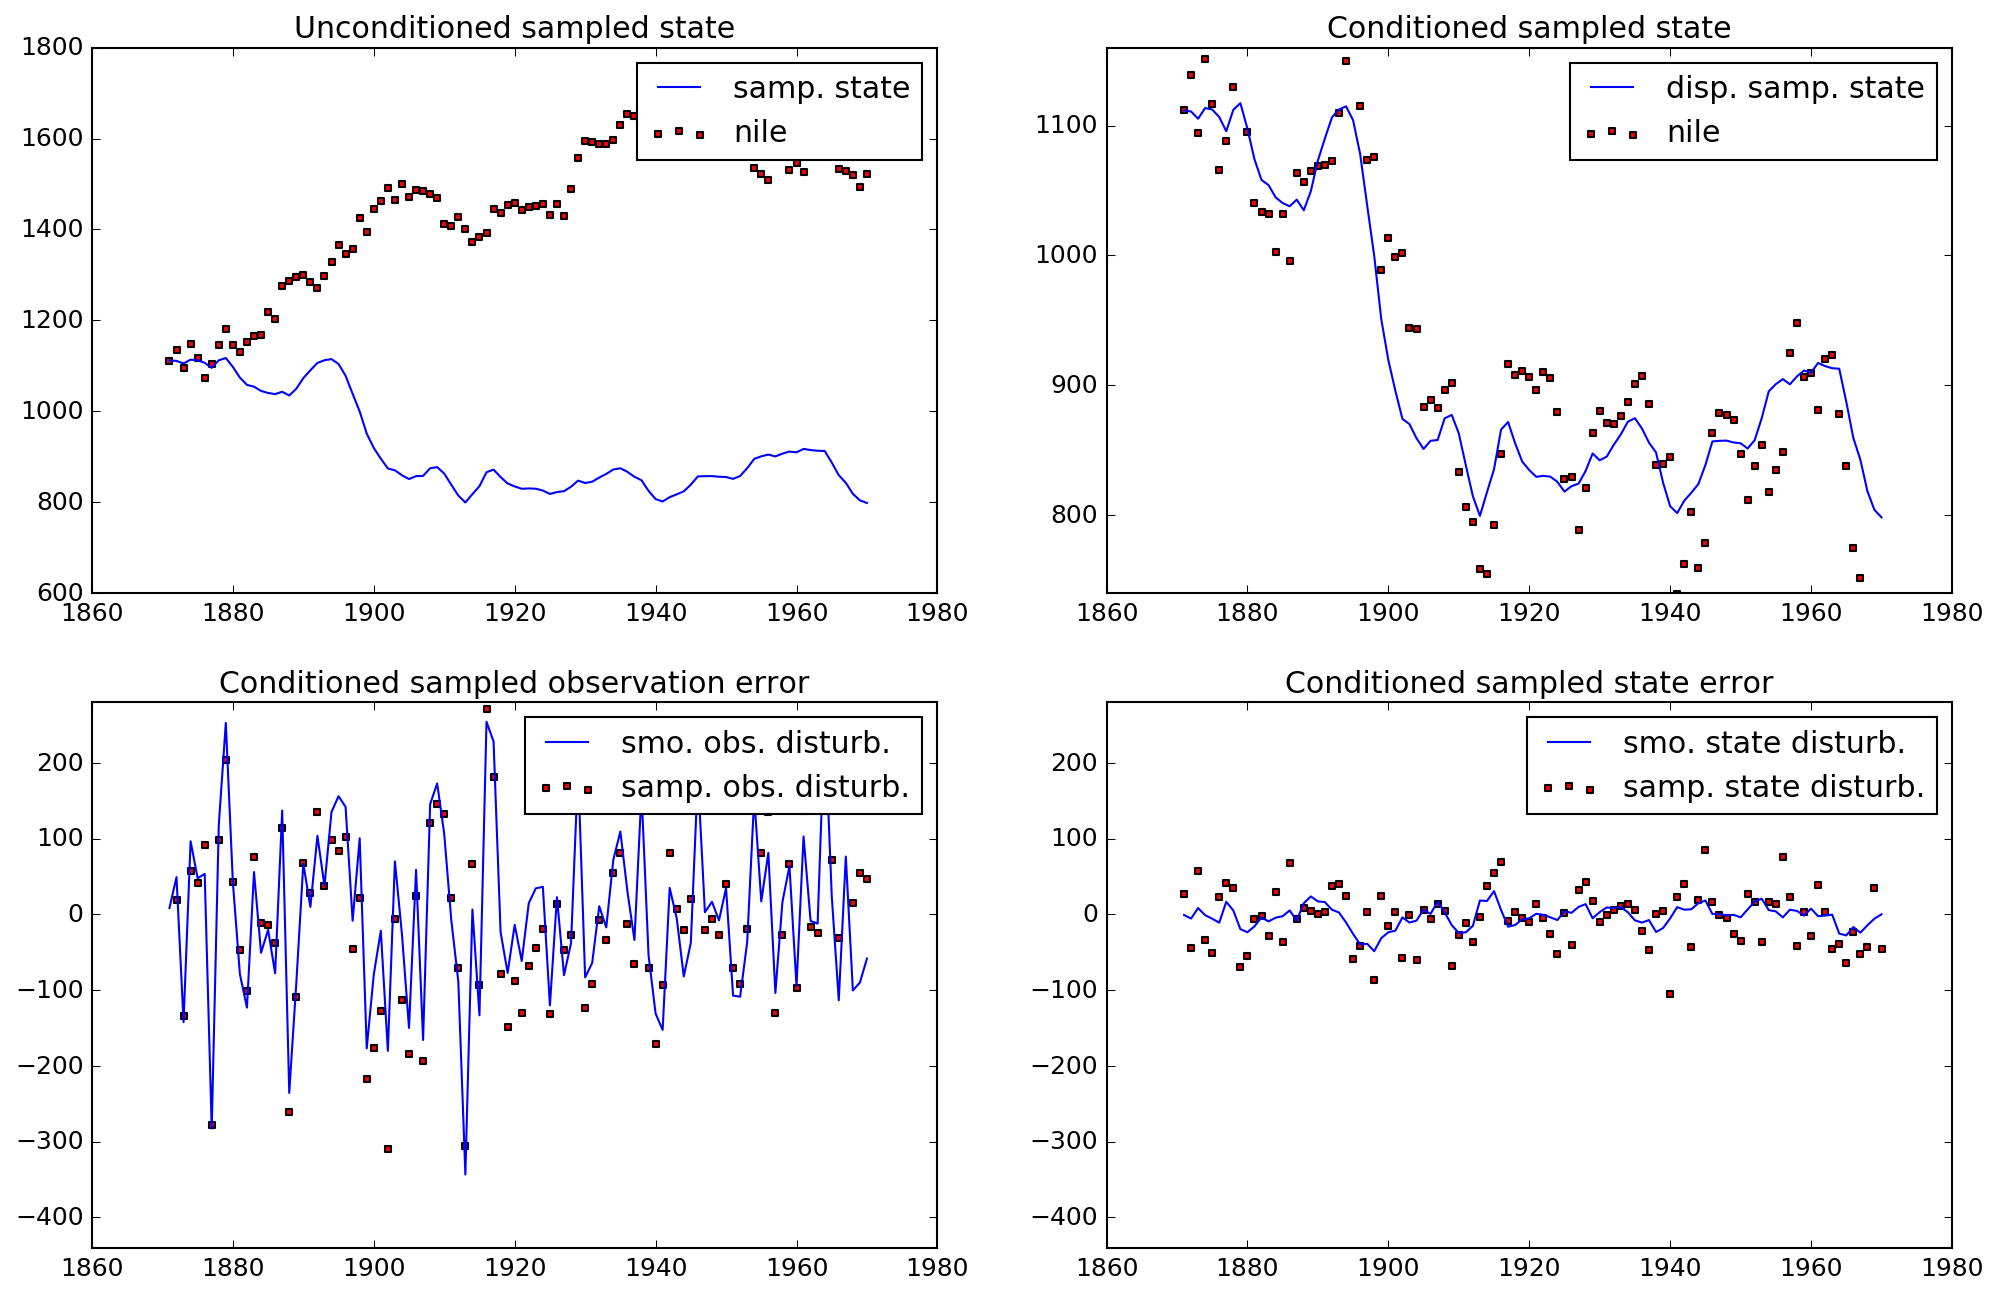
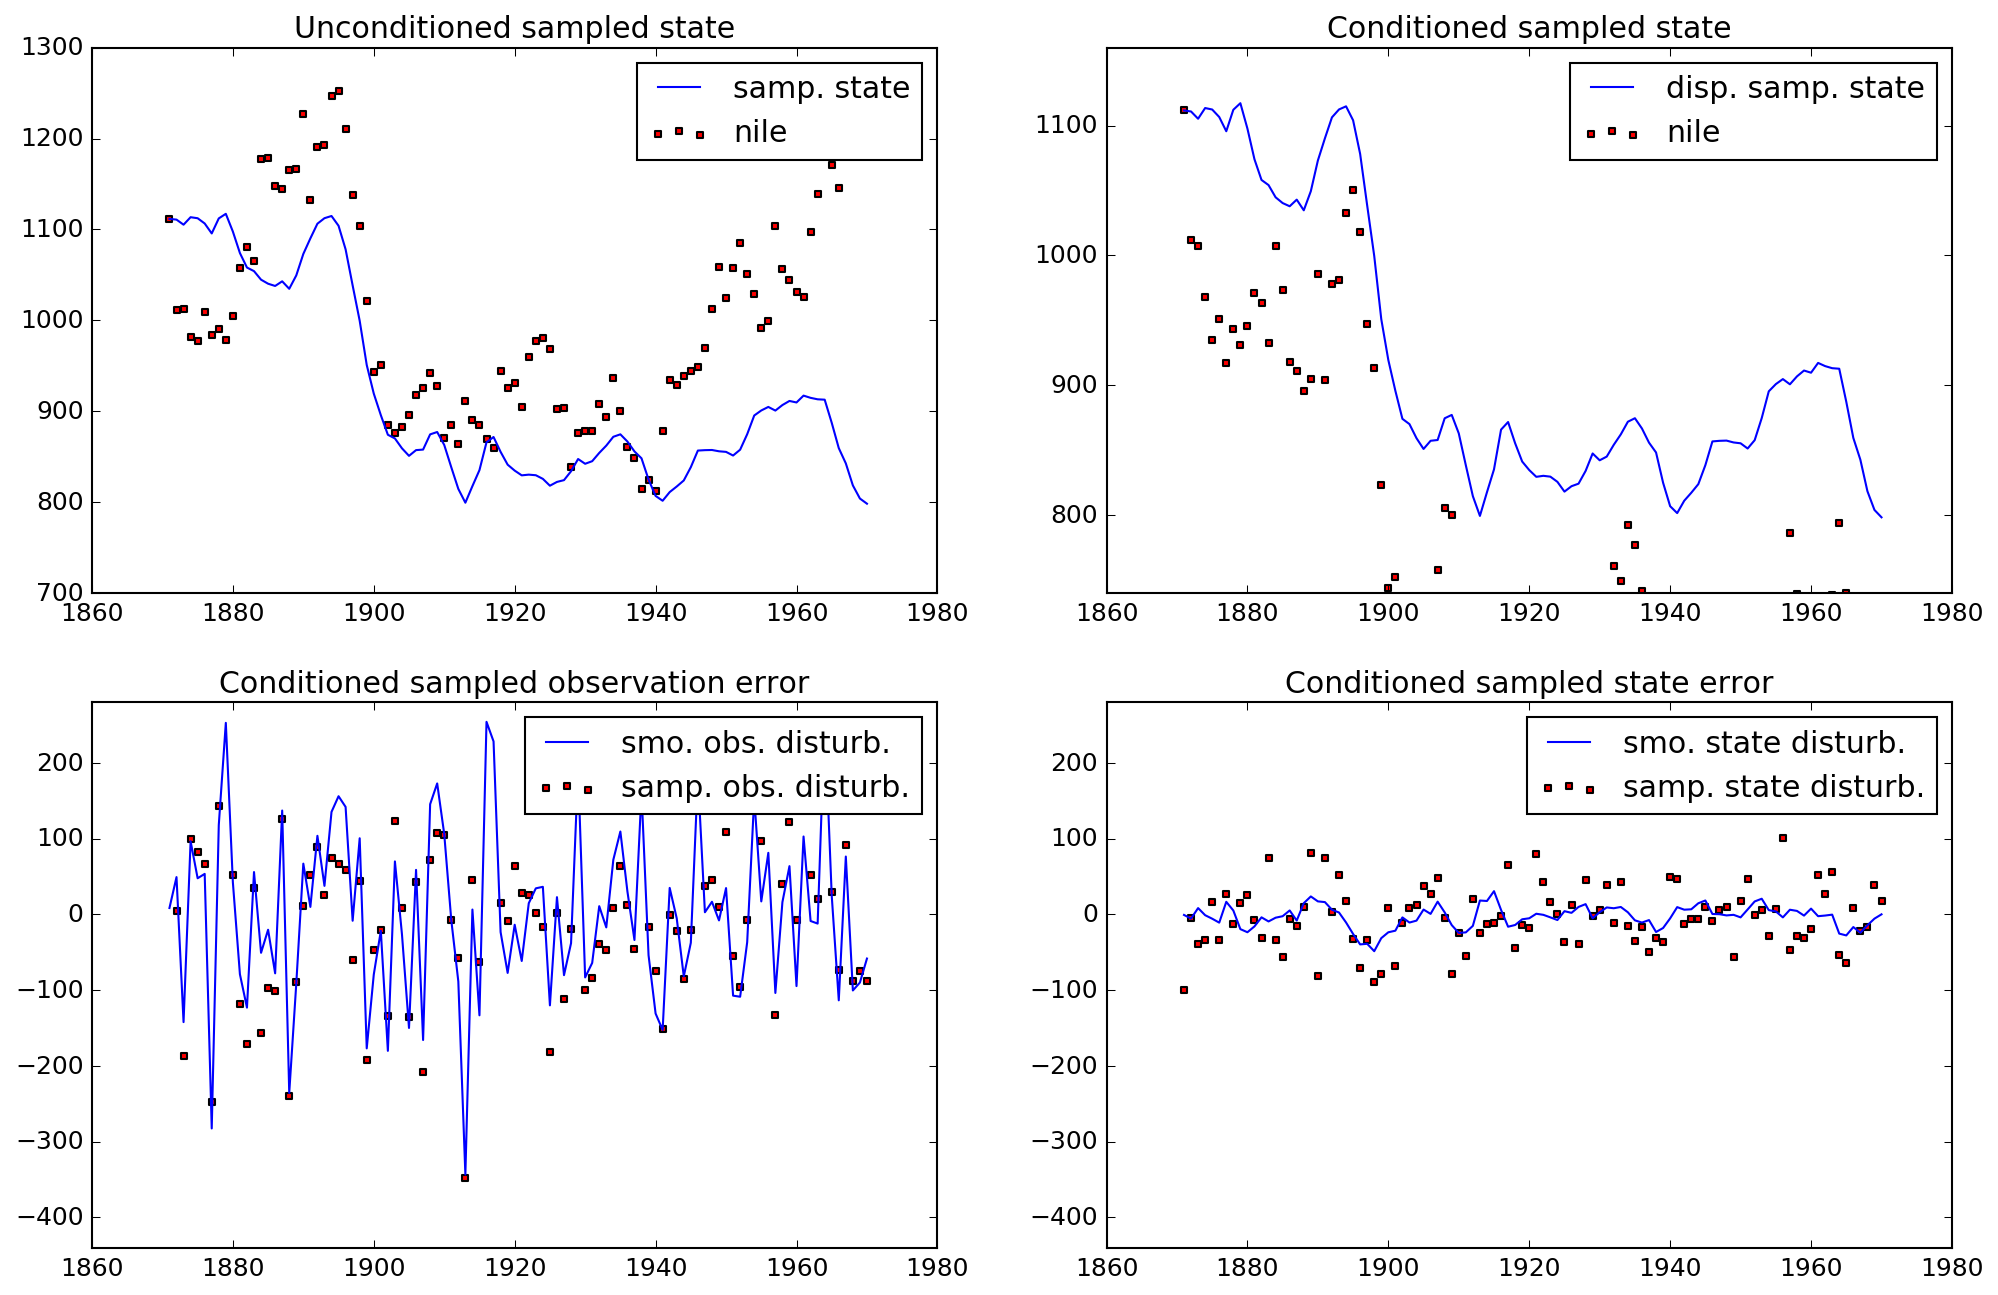
demos working ... ref results generated

diff --git a/demo_seatbelt.py b/demo_seatbelt.py
@@ -213,48 +213,71 @@ else:
     plt.show()
 
 #-- Add intervention to both series --#
+bibstsm2i  = ssm.model_cat([bibstsm,ssm.model_mvreg(2,ssm.x_intv(y2.shape[1],'step',169),[[True],[True]])])
+opt_x,logL2i  = ssm.estimate(y2, bibstsm2i, np.log([0.1,0.1,0.05,0.02,0.02,0.01])/2)[:2]
+# opt_x,logL2i  = ssm.estimate(y2, bibstsm2i, np.log([0.0054,0.00857,0.00445,0.000256,0.000232,0.000225])/2)[:2]
+bibstsm2i  = ssm.set_param(bibstsm2i, opt_x)
+Qirr  = bibstsm2i['H']['mat']
+Qlvl  = bibstsm2i['Q']['mat']
+alphahat2i,V2i    = ssm.statesmo(1, y2, bibstsm2i)[:2]
 
-# bibstsm2i           = [bibstsm ssm_mvintv(2, size(y2, 2), 'step', 170)];
-# [bibstsm2i logL2i]  = estimate(y2, bibstsm2i, [0.0054 0.00857 0.00445 0.000256 0.000232 0.000225], [], 'fmin', 'bfgs', 'disp', 'off');
-# [alphahat2i V2i]    = statesmo(y2, bibstsm2i);
-# fprintf(1, '[Parameters estimated w/ intervention on both series]\n');
-# fprintf(1, 'Loglikelihood: %g.\n', logL2i);
-# fprintf(1, 'Irregular disturbance   Level disturbance\n');
-# fprintf(1, fline, bibstsm2i.param([1 3 4 6]));
-# fprintf(1, fline, bibstsm2i.param([3 2 6 5]));
-# fprintf(1, 'Level shift intervention:\n');
-# fprintf(1, '        Coefficient     R. m. s. e.     t-value\n');
-# fprintf(1, 'front   %-14.5g  %-14.5g  %g\n', alphahat2i(end-1, end), realsqrt(V2i(end-1, end-1, end)), alphahat2i(end-1, end)/realsqrt(V2i(end-1, end-1, end)));
-# fprintf(1, 'rear    %-14.5g  %-14.5g  %g\n\n', alphahat2i(end, end), realsqrt(V2i(end, end, end)), alphahat2i(end, end)/realsqrt(V2i(end, end, end)));
+fout.write('[Parameters estimated w/ intervention on both series]\n')
+fout.write("Loglikelihood: %g.\n" % logL2i)
+fout.write('Irregular disturbance   Level disturbance\n')
+fout.write(fline % (Qirr[0,0],Qirr[0,1],Qlvl[0,0],Qlvl[0,1]))
+fout.write(fline % (Qirr[1,0],Qirr[1,1],Qlvl[1,0],Qlvl[1,1]))
+fout.write('Level shift intervention:\n')
+fout.write('        Coefficient     R. m. s. e.     t-value\n')
+fout.write("front   %-14.5g  %-14.5g  %g\n" % (alphahat2i[-2,-1],np.sqrt(V2i[-2,-2,-1]), alphahat2i[-2,-1]/np.sqrt(V2i[-2,-2,-1])))
+fout.write("rear    %-14.5g  %-14.5g  %g\n\n" % (alphahat2i[-1,-1],np.sqrt(V2i[-1,-1,-1]), alphahat2i[-1,-1]/np.sqrt(V2i[-1,-1,-1])))
 
-# % Add intervention only to front seat passenger series
-# bibstsmi            = [bibstsm ssm_mvintv(2, size(y2, 2), {'step' 'null'}, 170)];
-# [bibstsmi logLi]    = estimate(y2, bibstsmi, [0.00539 0.00856 0.00445 0.000266 0.000235 0.000232]);
-# [alphahati Vi]      = statesmo(y2, bibstsmi);
-# fprintf(1, '[Parameters estimated w/ intervention only on front seat series]\n');
-# fprintf(1, 'Loglikelihood: %g.\n', logLi);
-# fprintf(1, 'Irregular disturbance   Level disturbance\n');
-# fprintf(1, fline, bibstsmi.param([1 3 4 6]));
-# fprintf(1, fline, bibstsmi.param([3 2 6 5]));
-# fprintf(1, 'Level shift intervention:\n');
-# fprintf(1, '        Coefficient     R. m. s. e.     t-value\n');
-# fprintf(1, 'front   %-14.5g  %-14.5g  %g\n\n', alphahati(end, end), realsqrt(Vi(end, end, end)), alphahati(end, end)/realsqrt(Vi(end, end, end)));
+#-- Add intervention only to front seat passenger series --#
+bibstsmi  = ssm.model_cat([bibstsm,ssm.model_mvreg(2,ssm.x_intv(y2.shape[1],'step',169),[[True],[False]])])
+opt_x,logLi  = ssm.estimate(y2, bibstsmi, np.log([0.1,0.1,0.05,0.02,0.02,0.01])/2)[:2] #np.log([0.00539,0.00856,0.00445,0.000266,0.000235,0.000232])/2)[:2]
+bibstsmi  = ssm.set_param(bibstsmi, opt_x)
+Qirr  = bibstsmi['H']['mat']
+Qlvl  = bibstsmi['Q']['mat']
+alphahati,Vi  = ssm.statesmo(1, y2, bibstsmi)[:2]
 
-# comhati     = signal(alphahati, bibstsmi);
-# lvlhati     = comhati(:, :, 1);
-# seashati    = comhati(:, :, 2);
-# reghati     = comhati(:, :, 3);
-# intvhati    = comhati(:, :, 4);
-# figure('Name', 'Estimated components w/ intervention only on front seat series');
-# subplot(2, 2, 1), plot(time(1:end-1), lvlhati(1, :)+reghati(1, :)+intvhati(1, :), 'DisplayName', 'est. level'), hold all, scatter(time(1:end-1), y2(1, :), 8, 'r', 's', 'filled', 'DisplayName', 'front seat'), hold off, title('Front seat passenger level (w/o seasonal)'), xlim([68 85]), ylim([6 7.25]), legend('show');
-# subplot(2, 2, 2), plot(time(1:end-1), lvlhati(1, :)+intvhati(1, :)), title('Front seat passenger level'), xlim([68 85]),% ylim([3.84 4.56]);
-# subplot(2, 2, 3), plot(time(1:end-1), lvlhati(2, :)+reghati(2, :), 'DisplayName', 'est. level'), hold all, scatter(time(1:end-1), y2(2, :), 8, 'r', 's', 'filled', 'DisplayName', 'rear seat'), hold off, title('Rear seat passenger level (w/o seasonal)'), xlim([68 85]), ylim([5.375 6.5]), legend('show');
-# subplot(2, 2, 4), plot(time(1:end-1), lvlhati(2, :)), title('Rear seat passenger level'), xlim([68 85]),% ylim([1.64 1.96]);
-# if ispc, set(gcf, 'WindowStyle', 'docked'); end
+fout.write('[Parameters estimated w/ intervention only on front seat series]\n')
+fout.write("Loglikelihood: %g.\n" % logLi)
+fout.write('Irregular disturbance   Level disturbance\n')
+fout.write(fline % (Qirr[0,0],Qirr[0,1],Qlvl[0,0],Qlvl[0,1]))
+fout.write(fline % (Qirr[1,0],Qirr[1,1],Qlvl[1,0],Qlvl[1,1]))
+fout.write('Level shift intervention:\n')
+fout.write('        Coefficient     R. m. s. e.     t-value\n')
+fout.write("front   %-14.5g  %-14.5g  %g\n\n" % (alphahati[-1,-1],np.sqrt(Vi[-1,-1,-1]),alphahati[-1,-1]/np.sqrt(Vi[-1,-1,-1])))
 
-# % figure('Name', 'Estimated components w/ intervention only on front seat series');
-# % subplot(2, 1, 1), plot(time(1:end-1), lvlhati(1, :)+reghati(1, :)+intvhati(1, :), 'DisplayName', 'est. level'), hold all, scatter(time(1:end-1), y2(1, :), 8, 'r', 's', 'filled', 'DisplayName', 'front seat'), hold off, title('Front seat passenger level (w/o seasonal)'), xlim([68 85]), ylim([6 7.25]);
-# % subplot(2, 1, 2), plot(time(1:end-1), lvlhati(2, :)+reghati(2, :), 'DisplayName', 'est. level'), hold all, scatter(time(1:end-1), y2(2, :), 8, 'r', 's', 'filled', 'DisplayName', 'rear seat'), hold off, title('Rear seat passenger level (w/o seasonal)'), xlim([68 85]), ylim([5.375 6.5]);
-# % if ispc, set(gcf, 'WindowStyle', 'docked'); end
+comhati   = ssm.signal(alphahati, bibstsmi, [2,22,4,1])
+lvlhati   = comhati[:,:,0]
+seashati  = comhati[:,:,1]
+reghati   = comhati[:,:,2]
+intvhati  = comhati[:,:,3]
+
+fig  = plt.figure(num='Estimated components w/ intervention only on front seat series')
+ax1  = plt.subplot(221)
+plt.plot(time[:-1], lvlhati[0,:]+reghati[0,:]+intvhati[0,:],label='est. level')
+plt.scatter(time[:-1], y2[0,:].squeeze(), 8, 'r', 's', 'filled', label='front seat')
+plt.title('Front seat passenger level (w/o seasonal)')
+plt.xlim([time[0],time[-2]]); plt.ylim([6,7.25]); plt.legend()
+ax2  = plt.subplot(222)
+plt.plot(time[:-1], lvlhati[0,:]+intvhati[0,:])
+plt.title('Front seat passenger level')
+plt.xlim([time[0],time[-2]]); # plt.ylim([3.84,4.56])
+ax3  = plt.subplot(223)
+plt.plot(time[:-1], lvlhati[1,:]+reghati[1,:], label='est. level')
+plt.scatter(time[:-1], y2[1,:].squeeze(), 8, 'r', 's', 'filled', label='rear seat')
+plt.title('Rear seat passenger level (w/o seasonal)')
+plt.xlim([time[0],time[-2]]); plt.ylim([5.375,6.5]); plt.legend()
+ax4  = plt.subplot(224)
+plt.plot(time[:-1], lvlhati[1,:])
+plt.title('Rear seat passenger level')
+plt.xlim([time[0],time[-2]]); # plt.ylim([1.64,1.96])
+
+if SILENT_OUTPUT:
+    plt.savefig('demo_seatbelt'+run_name+'_out07.png')
+    plt.close()
+else:
+    plt.show()
 
 if SILENT_OUTPUT: fout.close()

diff --git a/ssalg.py b/ssalg.py
@@ -578,7 +578,7 @@ def estimate(y,model,x0,method=None,tol=DEFAULT_TOL):
     nloglik = lambda x: _kalman(4,n,y,mis,anymis,allmis,*prepare_model(set_param(model,x),n),tol=tol,log_diag=False)[0]
 
     res     = minimize(nloglik,x0,method=method)
-    logL    = -nmis * (p*np.log(2*np.pi) + res.fun) / 2
+    logL    = -(nmis*p*np.log(2*np.pi) + res.fun) / 2
     AIC     = (-2*logL + 2*(w + sum(model['P1']['mat'] == np.inf)))/nmis
     BIC     = (-2*logL + np.log(nmis)*(w + sum(model['P1']['mat'] == np.inf)))/nmis
 

diff --git a/ssm_predefined.py b/ssm_predefined.py
@@ -290,6 +290,7 @@ def model_mvreg(p, x, dep=None):
     # %           each observation with each regression variable.
     m0,n  = x.shape
     if dep is not None:
+    	dep = np.asarray(dep)
         m   = np.sum(dep)
         X   = [x[None,dep[i,:],:] for i in range(p)]
         Z   = mat_const([blkdiag(*[X[i][:,:,t] for i in range(p)]) for t in range(n)],dynamic=True)
